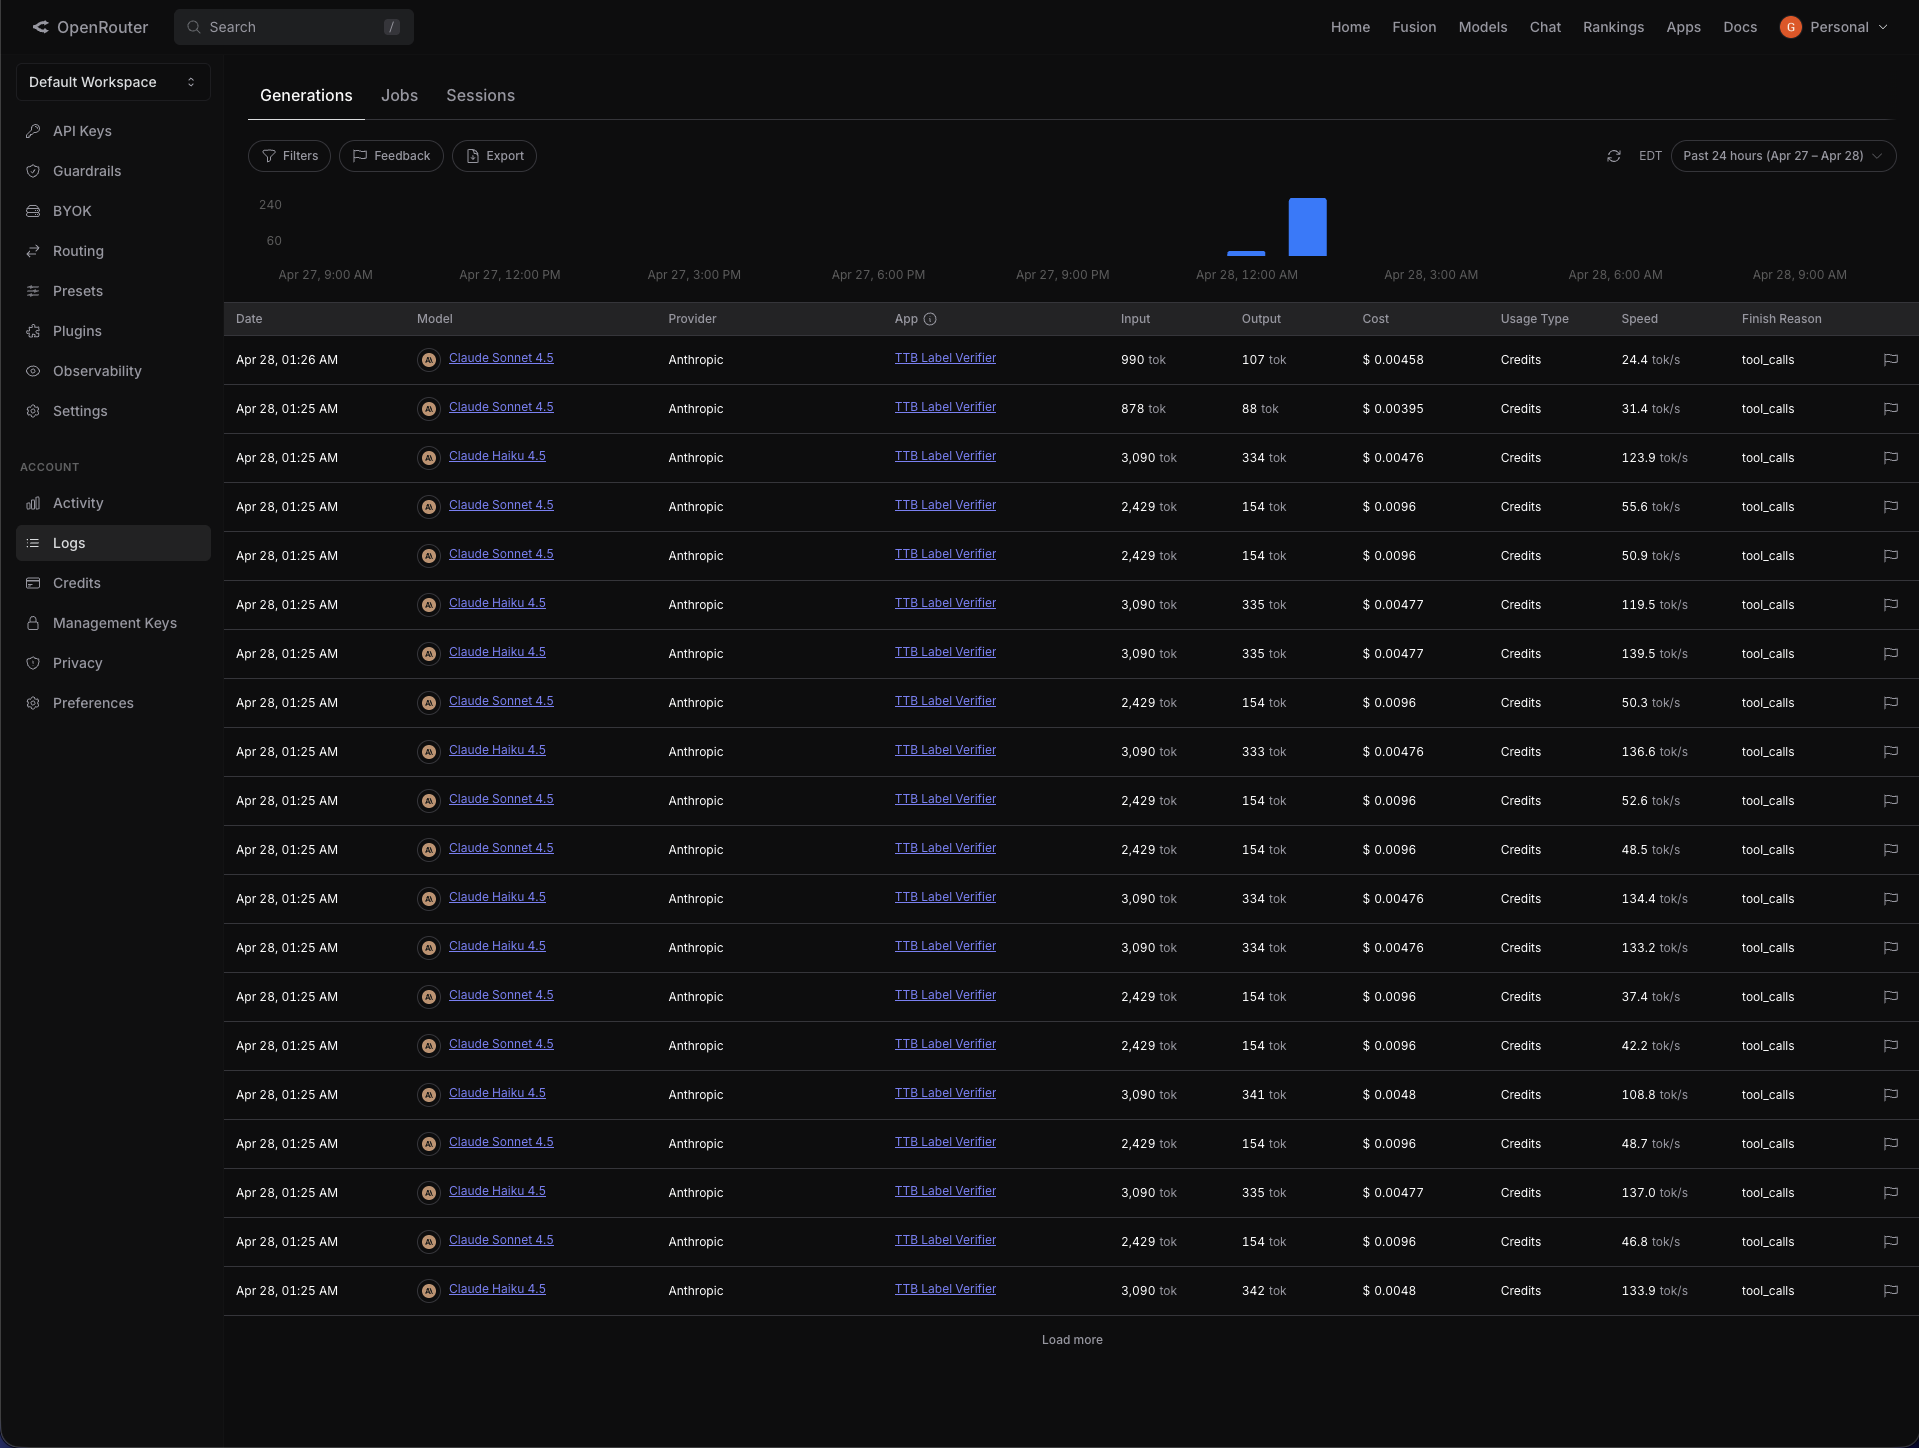
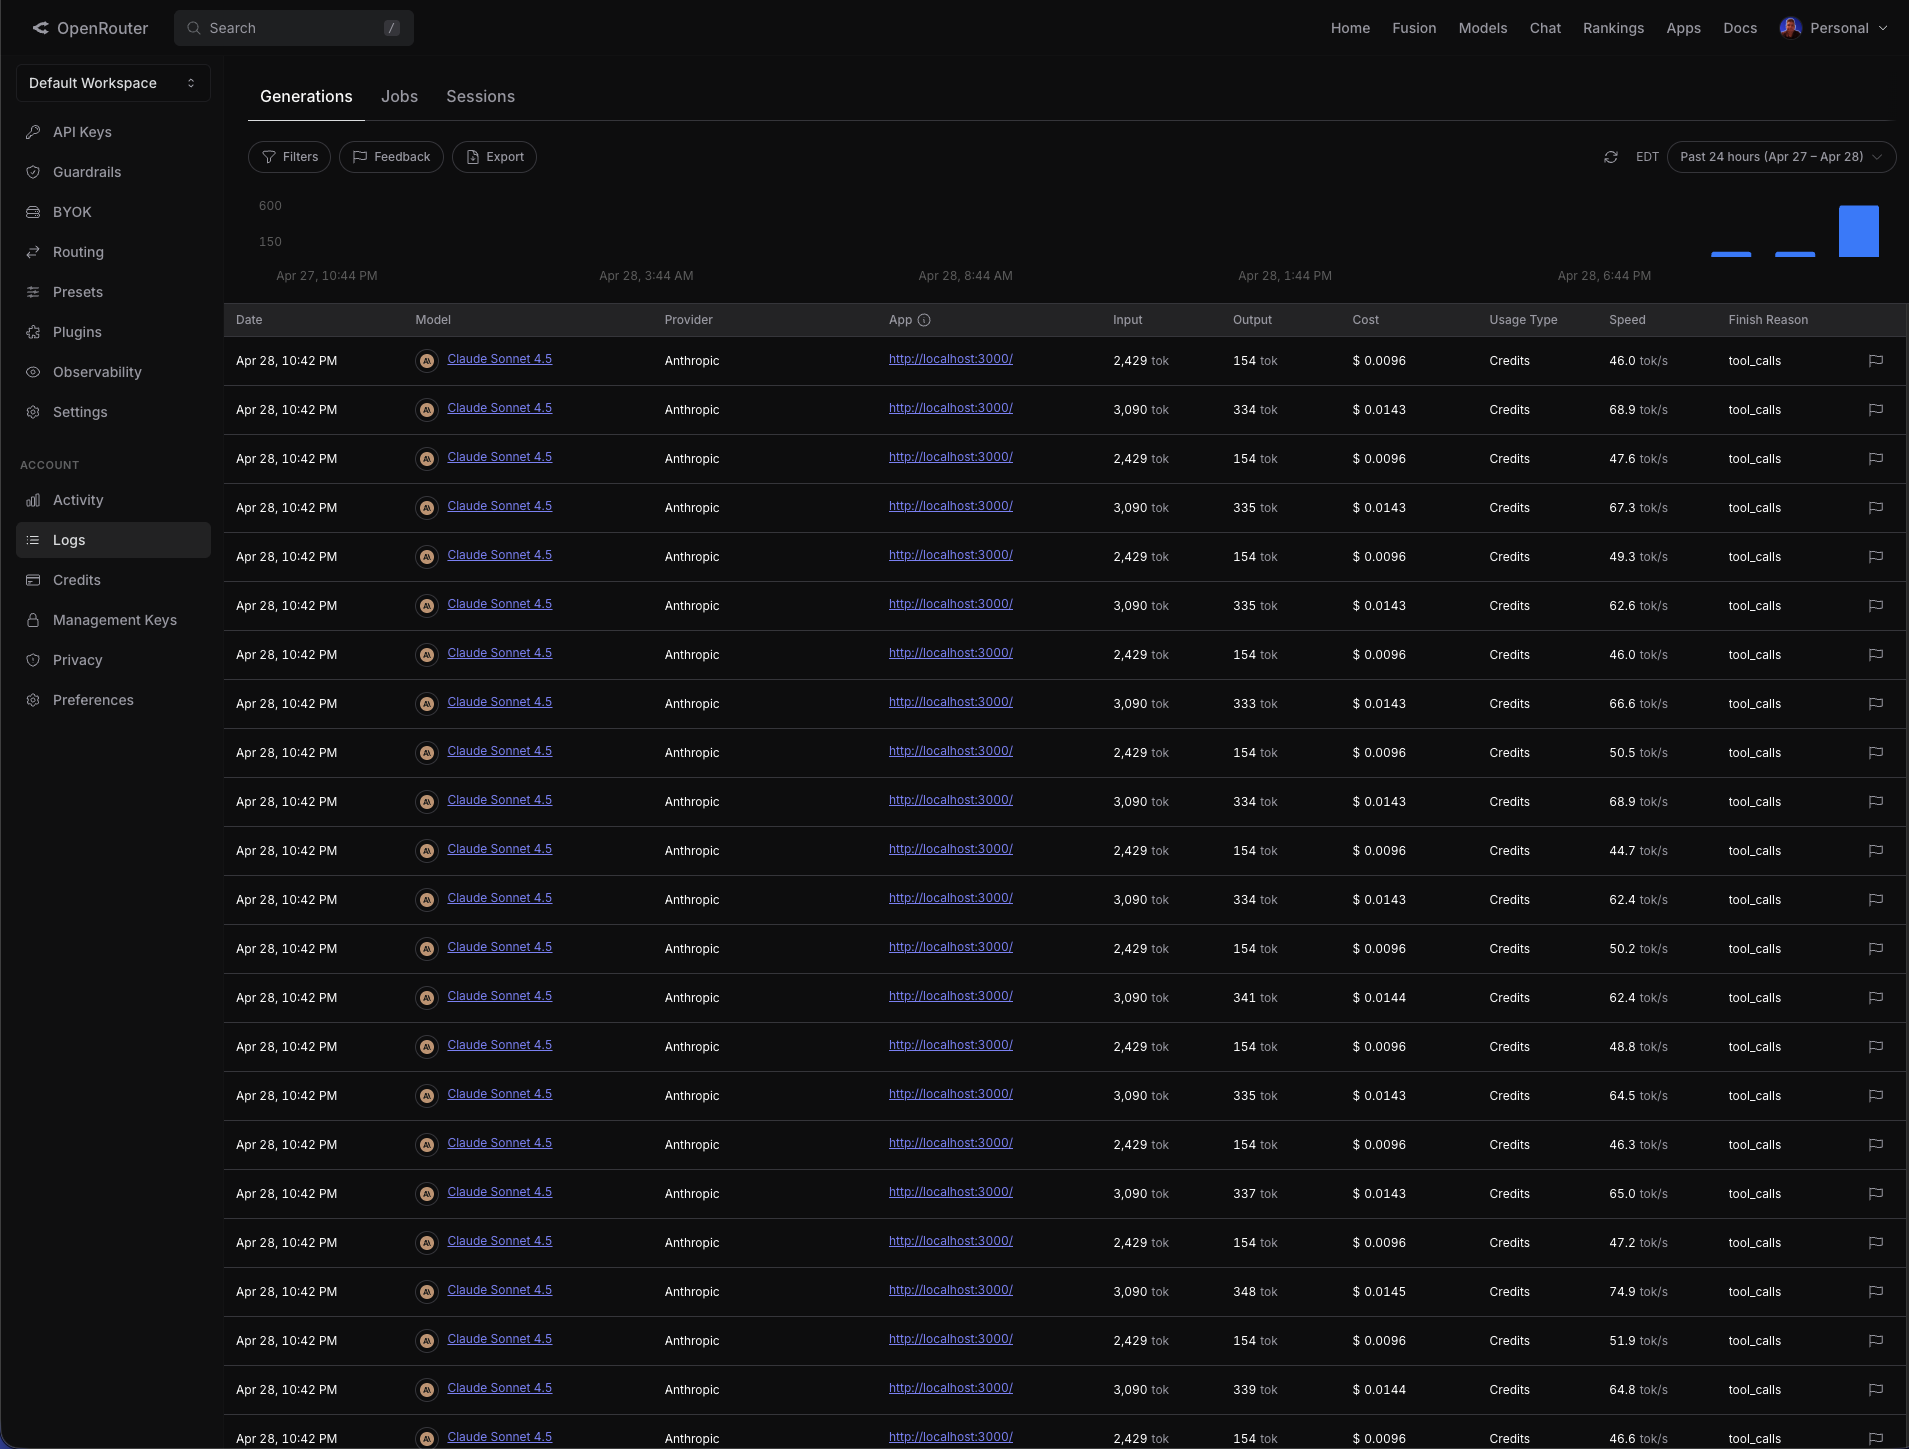
Refresh OpenRouter screenshots + Operations aggregate numbers
- Updated dev-docs/screenshots/openrouter-{activity,logs}.png to the
  latest dashboard state
- README Operations: aggregate now $4.64 / 622 req / 1.86M tok
  (Sonnet $3.26, 314 req, 850K tok · Haiku $1.38, 308 req, 1.01M tok).
  Most of the recent volume is from two eval:compare runs.

diff --git a/README.md b/README.md
@@ -111,7 +111,7 @@ Sentry org/project/auth-token are pulled by the Sentry build plugin from `.env.s
 
 ## Operations
 
-- **OpenRouter activity dashboard:** filtered by the `alcohol-label` API key (`X-Title: TTB Label Verifier`). Per-request cost, latency, model, and finish reason all visible. Aggregate over the past month: **$1.78 spend / 252 requests / 741K tokens** — split between Claude Sonnet 4.5 ($1.20, 130 req) and Claude Haiku 4.5 ($0.58, 122 req) with every request flowing through Anthropic and finishing as `tool_calls` (structured tool-use working as designed).
+- **OpenRouter activity dashboard:** filtered by the `alcohol-label` API key (`X-Title: TTB Label Verifier`). Per-request cost, latency, model, and finish reason all visible. Aggregate over the past month: **$4.64 spend / 622 requests / 1.86M tokens** — split between Claude Sonnet 4.5 ($3.26, 314 req, 850K tok) and Claude Haiku 4.5 ($1.38, 308 req, 1.01M tok) with every request flowing through Anthropic and finishing as `tool_calls` (structured tool-use working as designed). Most of the recent volume is from two `bun run eval:compare` runs (~$1.34 each) that produce the committed `eval-results.md`.
   - Activity view: ![OpenRouter activity (1mo aggregate)](dev-docs/screenshots/openrouter-activity.png)
   - Logs view: ![OpenRouter logs (per-request)](dev-docs/screenshots/openrouter-logs.png)
 - **Sentry project:** `alcohol-label/alcohol-label` (org/project) — runtime errors with source-mapped traces. Configured via the Next.js Sentry wizard; build-time source map upload runs from Vercel.
